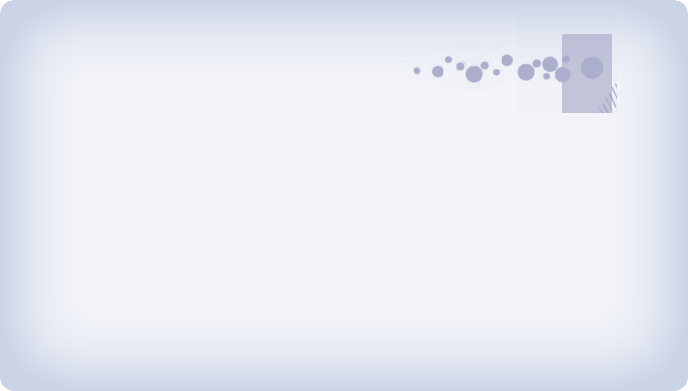
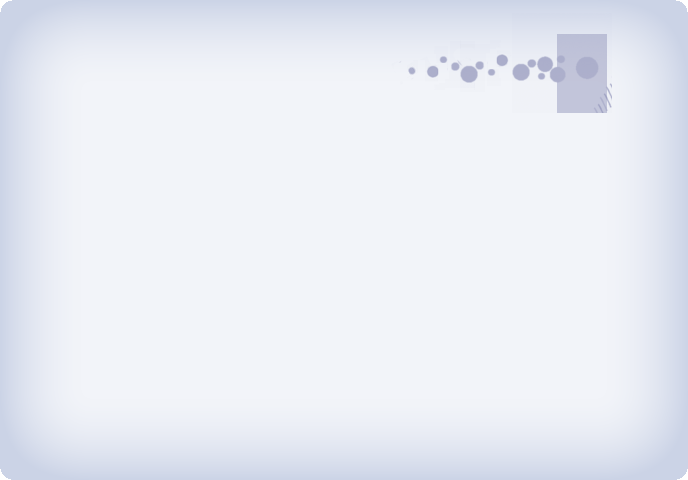
[modify] change forum/create background into a picture

Changed region(s): [[0.5799, 0.0614, 0.9157, 0.3069]]

diff --git a/statics/styles/style.css b/statics/styles/style.css
@@ -5352,10 +5352,16 @@ li.enabled a
     padding-left:44px;
 }
 
+#forum-create
+{
+    background-image: url(../forum/create/background.png);
+    margin-left: 35px;
+    background-repeat: no-repeat;
+}
+
 #forum-create-form .form-top
 {
-    background-image: url('../forum/create/background_top.png');
-    background-repeat: no-repeat;
+    
     margin-left:35px;
     width:656px;
     height:81px;
@@ -5384,7 +5390,7 @@ li.enabled a
 
 #forum-create-form .form-body
 {
-    background-image: url('../forum/create/background_body.png');
+    
     margin-left:35px;
     margin-top:0px;
     width:656px;
@@ -5418,8 +5424,7 @@ li.enabled a
 
 #forum-create-form .form-foot
 {
-    background-image: url('../forum/create/background_foot.png');
-    background-repeat: no-repeat;
+    
     margin-left:35px;
     margin-top:0px;
     width:656px;

diff --git a/application/views/forum/create.php b/application/views/forum/create.php
@@ -1,4 +1,5 @@
 <form id="forum-create-form" enctype="multiprt/form-data" action="<?php echo Yii::app()->createUrl('forum/create', array('fid' => $fid)); ?>" method="POST">
+<div id="forum-create">
 <div class="form-top">
     <p id="forum-create-text-number-check">發表文章</p>
     <dl>
@@ -58,5 +59,6 @@
     <button id="forum-create-submit" disabled>發佈</button>
     <button class="forum-cancel-button" type="reset">取消</button>
     </div>
+</div>
 </div>
 </form>

diff --git a/application/controllers/ForumController.php b/application/controllers/ForumController.php
@@ -137,7 +137,6 @@ class ForumController extends Controller
         {
             throw new CHttpException(404);
         }
-        
     }
 
     public function actionComment(){
